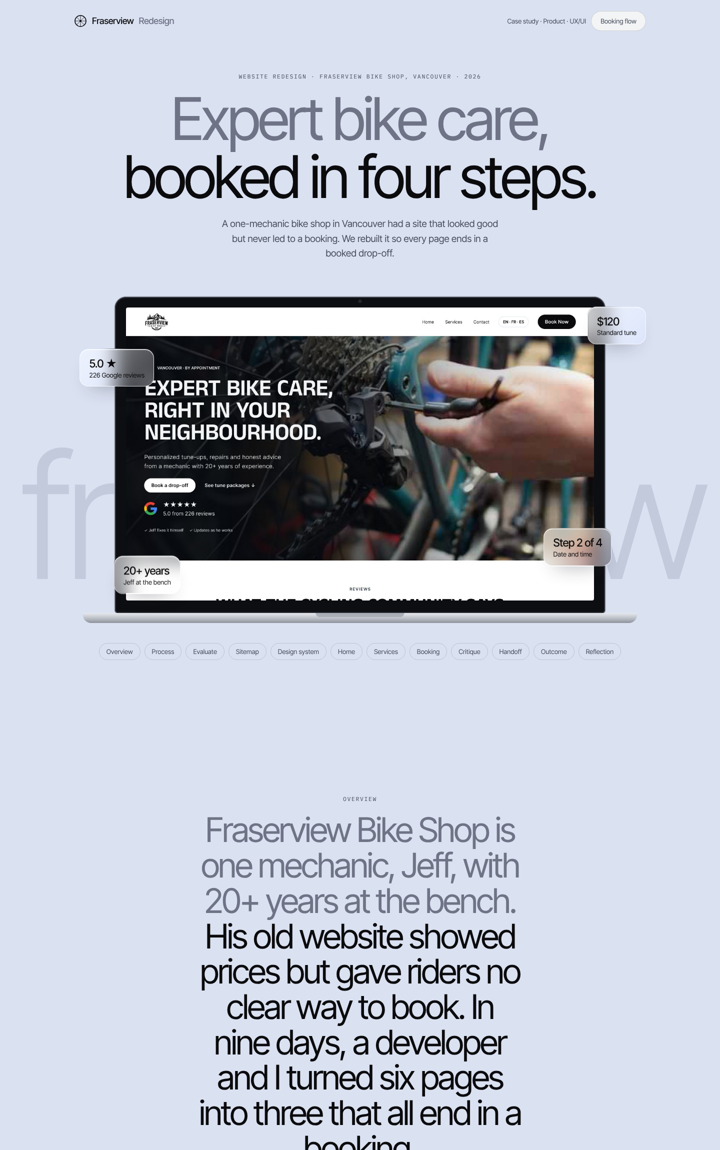
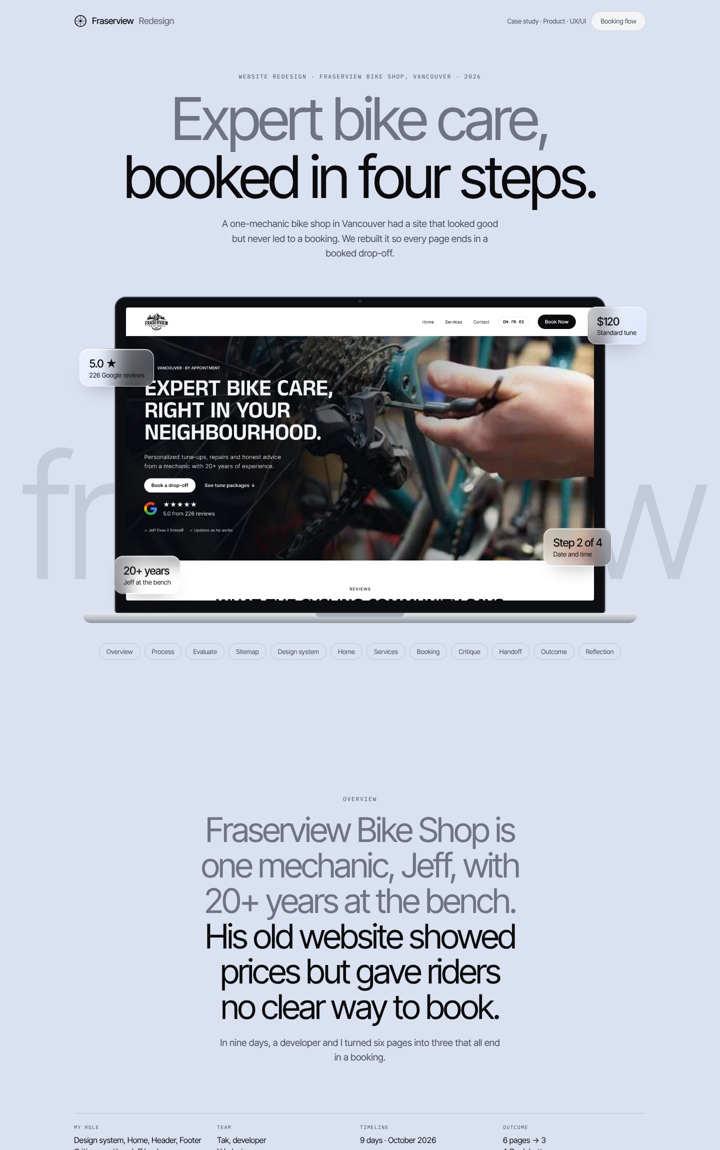
Add v0 one-page skeleton with confirmed copy
Hero with a static six-cover row, work list (3 live, Amigo hidden),
About, Experience and Contact. Pure HTML and CSS; colours and type
as variables in style.css.

Claude-Session: https://claude.ai/code/session_01NvAKwMWB7nvS2ARZZUCqbK

Changed region(s): [[0.0917, 0.8217, 0.7333, 1.0]]

diff --git a/index.html b/index.html
@@ -3,14 +3,190 @@
 <head>
   <meta charset="utf-8">
   <meta name="viewport" content="width=device-width, initial-scale=1">
-  <title>Yujeong Kwon — Designer</title>
-  <style>
-    :root { --bg: #fff; --fg: #111; }
-    body { margin: 0; min-height: 100vh; display: grid; place-items: center; background: var(--bg); color: var(--fg); font-family: system-ui, sans-serif; padding: 16px; }
-    p { font-size: 1.25rem; max-width: 36ch; text-align: center; }
-  </style>
+  <title>Yujeong Kwon — Designer, Vancouver</title>
+  <meta name="description" content="Designer working across brand, marketing, and product. Based in Vancouver.">
+  <link rel="preconnect" href="https://fonts.googleapis.com">
+  <link rel="preconnect" href="https://fonts.gstatic.com" crossorigin>
+  <link rel="stylesheet" href="https://fonts.googleapis.com/css2?family=Inter+Tight:wght@400;500;600&family=IBM+Plex+Mono:wght@400;500&display=swap">
+  <link rel="stylesheet" href="style.css">
 </head>
 <body>
-  <p>Designer working across brand, marketing, and product. Based in Vancouver. — Site in progress.</p>
+
+<header class="wrap top">
+  <a class="name" href="#top">Yujeong Kwon</a>
+  <nav aria-label="Sections">
+    <a href="#work">Work</a>
+    <a href="#about">About</a>
+    <a href="#contact">Contact</a>
+  </nav>
+</header>
+
+<!-- HERO -->
+<section class="wrap hero" id="top">
+  <h1 class="h-xl">Designer working across brand, marketing, and product.</h1>
+  <p class="sub"><span>Based in Vancouver.</span><a href="#about">Same method, different rooms → How these connect</a></p>
+
+  <!-- The crate. Six covers; off-centre tilt comes in step 2. -->
+  <div class="crate" aria-label="Selected work">
+    <a class="card" href="#w-creodent">
+      <div class="cover cv-creo"><span>CreoDent</span></div>
+      <div class="cap"><b>CreoDent</b><span>Brand</span></div>
+    </a>
+    <a class="card" href="work/fraserview/">
+      <div class="cover"><img src="work/fraserview/img/home_d.jpg" alt="Fraserview Bike Shop home page"><span>Fraserview</span></div>
+      <div class="cap"><b>Fraserview</b><span>Product</span></div>
+    </a>
+    <a class="card" href="#w-bca">
+      <div class="cover cv-bca"><span>BCA</span></div>
+      <div class="cap"><b>BCA</b><span>In progress</span></div>
+    </a>
+    <a class="card" href="#about">
+      <div class="cover cv-star"><span>Starlight Studio</span></div>
+      <div class="cap"><b>Starlight Studio</b><span>Marketing</span></div>
+    </a>
+    <a class="card" href="#about">
+      <div class="cover cv-loom"><span>LineLoomArt</span></div>
+      <div class="cap"><b>LineLoomArt</b><span>Maker</span></div>
+    </a>
+    <a class="card" href="#about">
+      <div class="cover cv-me"><span>Yujeong</span></div>
+      <div class="cap"><b>Yujeong</b><span>About</span></div>
+    </a>
+  </div>
+</section>
+
+<!-- WORK -->
+<section class="wrap work" id="work">
+  <p class="label">Work</p>
+  <ol>
+    <li id="w-creodent">
+      <span class="n">01</span>
+      <div>
+        <h3><a href="#w-creodent">CreoDent</a></h3>
+        <p class="tagline">A year in-house. Then they called me back.</p>
+      </div>
+      <p class="desc">Ads, social, video, trade shows, eShop photography and two internal tools for a New York dental lab, across three sub-brands that could not look alike. The templates are still in use; I've been their freelance designer since.</p>
+      <div class="meta">
+        <div class="tags"><span>Brand</span><span>Marketing</span><span>Product</span></div>
+        <span class="year">2024 – now</span>
+      </div>
+    </li>
+    <li id="w-fraserview">
+      <span class="n">02</span>
+      <div>
+        <h3><a href="work/fraserview/">Fraserview Bike Shop</a></h3>
+        <p class="tagline">Expert bike care, booked in four steps.</p>
+      </div>
+      <p class="desc">Six pages became three that all end in a booking. Design system, Home and developer handoff, in nine days with a developer.</p>
+      <div class="meta">
+        <div class="tags"><span>Product</span></div>
+        <span class="year">2026</span>
+      </div>
+    </li>
+    <li id="w-bca">
+      <span class="n">03</span>
+      <div>
+        <h3><a href="#w-bca">BCA · Brazilian Community Association of BC</a></h3>
+        <p class="tagline">A bilingual community site that feels like a neighbour, not an office.</p>
+      </div>
+      <p class="desc">Mid-fi, shared design system and PT/EN build for a team of four. Opens December.</p>
+      <div class="meta">
+        <div class="tags"><span>Product</span><span class="soft">In progress</span></div>
+        <span class="year">2026</span>
+      </div>
+    </li>
+    <!-- 04 Amigo · coming December
+    <li id="w-amigo">
+      <span class="n">04</span>
+      <div>
+        <h3><a href="#w-amigo">Amigo</a></h3>
+        <p class="tagline">Over-the-counter medicine, explained for newcomers.</p>
+      </div>
+      <p class="desc">When you are sick in a new country, the pharmacy is a wall of words. A search app for immigrants and students.</p>
+      <div class="meta">
+        <div class="tags"><span>Product</span></div>
+        <span class="year">2026</span>
+      </div>
+    </li>
+    -->
+  </ol>
+  <p class="more muted">More: Starlight Studio, LineLoomArt, SMC Korea, Ugly So Lovely — in the Playground, coming soon.</p>
+</section>
+
+<!-- ABOUT -->
+<section class="wrap about" id="about">
+  <p class="label">About · How these connect</p>
+  <div class="grid">
+    <div>
+      <p class="lead">I observe people. I understand the context. I turn an idea into something you can see. Then I make it real — on a screen, on paper, or in a room.</p>
+      <p class="lead">That is the whole method. Only the rooms change: a dental lab in New York, a bike shop in Vancouver, an art academy in Korea, a nail bar downtown. Each one taught me a different way to see the person on the other side.</p>
+    </div>
+    <div>
+      <p class="label">Beyond the screen</p>
+      <ul class="beyond">
+        <li><b>Nail bar</b><span>One client at a time, millimetre detail, feedback in seconds.</span></li>
+        <li><b>Teaching · art, adult English</b><span>Designing how people understand.</span></li>
+        <li><b>Marketing lead · art academy</b><span>Content that has to answer to numbers.</span></li>
+        <li><b>Etsy shop</b><span>Product, listing, launch and support, alone.</span></li>
+        <li><b>Trade shows</b><span>Booth flow, dwell time, what people actually pick up.</span></li>
+      </ul>
+    </div>
+  </div>
+</section>
+
+<!-- EXPERIENCE -->
+<section class="wrap xp" id="experience">
+  <p class="label">Experience</p>
+  <div class="rows">
+    <div class="row">
+      <time>Now</time>
+      <div><b>CreoDent</b> Freelance designer · 2026 –</div>
+      <div>Brochures and launch materials for new product lines.</div>
+    </div>
+    <div class="row">
+      <time>Now</time>
+      <div><b>Starlight Studio</b> SNS lead · 2026 –</div>
+      <div>Monthly plan, posts and captions for an art academy in Korea, remote.</div>
+    </div>
+    <div class="row">
+      <time>Now</time>
+      <div><b>LineLoomArt</b> Founder · 2026 –</div>
+      <div>Editable Canva wedding websites on Etsy: product, listing, launch, support.</div>
+    </div>
+    <div class="row">
+      <time>2024.08 – 2025.08</time>
+      <div><b>CreoDent, New York</b> Graphic Designer, Marketing</div>
+      <div>In-house 2D designer for three sub-brands: 14 magazine ads, 8 videos, 4 trade shows, eShop product photography, two internal tools. Templates still in use; working with them freelance since 2026.</div>
+    </div>
+    <div class="row">
+      <time>2023.01 – 2023.06</time>
+      <div><b>SMC Korea</b> SNS Content Designer</div>
+      <div>Card news, short-form and posters for six public institutions; pitch samples that helped win contracts.</div>
+    </div>
+  </div>
+  <div class="stats">
+    <div><b>4</b><span>Trade shows</span></div>
+    <div><b>3</b><span>Countries</span></div>
+    <div><b>6</b><span>Public-sector clients</span></div>
+  </div>
+  <p class="edu">CICCC, UX/UI Design (2026) · Hanyang University ERICA. Awards: Mediheal top prize, KSDS Outstanding Graduation Work, Design Cloud Top 100.</p>
+</section>
+
+<!-- CONTACT -->
+<section class="wrap contact" id="contact">
+  <p class="label">Contact</p>
+  <h2 class="h-l">Open to digital, brand and product design roles in Vancouver — contract or full-time.</h2>
+  <div class="links">
+    <a href="mailto:kwyj9848@gmail.com">Email</a>
+    <a href="#" aria-disabled="true">LinkedIn</a>
+    <a href="#" aria-disabled="true">Resume (PDF)</a>
+  </div>
+</section>
+
+<footer class="wrap">
+  <span>Yujeong Kwon · Vancouver, BC</span>
+  <span>Built by hand with HTML and CSS, 2026</span>
+</footer>
+
 </body>
 </html>

diff --git a/style.css b/style.css
@@ -1,0 +1,195 @@
+/* ------------------------------------------------------------
+   Yujeong Kwon — portfolio v0
+   Figma analogy: this file is the Variables + Text Styles panel.
+   Change a value under :root and the whole page follows.
+   ------------------------------------------------------------ */
+
+:root {
+  /* colour */
+  --bg: #ffffff;
+  --ink: #000000;
+  --muted: #6b6b6b;
+  --line: #000000;
+  --line-soft: #e6e6e6;
+
+  /* type */
+  --f-display: "Inter Tight", "Helvetica Neue", Arial, sans-serif;
+  --f-body: "Inter Tight", "Helvetica Neue", Arial, sans-serif;
+  --f-mono: "IBM Plex Mono", ui-monospace, Menlo, monospace;
+
+  /* spacing */
+  --wrap: 1280px;
+  --gutter: clamp(16px, 4vw, 48px);
+  --section: clamp(72px, 10vw, 140px);
+
+  /* cards */
+  --card-w: clamp(200px, 22vw, 300px);
+  --card-ratio: 3 / 4;
+
+  color-scheme: light;
+}
+
+* { box-sizing: border-box; }
+html { scroll-behavior: smooth; }
+body {
+  margin: 0;
+  background: var(--bg);
+  color: var(--ink);
+  font-family: var(--f-body);
+  font-size: 17px;
+  line-height: 1.5;
+  -webkit-font-smoothing: antialiased;
+}
+img { max-width: 100%; display: block; }
+a { color: inherit; }
+:focus-visible { outline: 2px solid var(--ink); outline-offset: 3px; }
+
+.wrap { max-width: var(--wrap); margin-inline: auto; padding-inline: var(--gutter); }
+section { padding-block: var(--section); border-top: 1px solid var(--line); }
+
+/* type styles */
+.label {
+  font-family: var(--f-mono);
+  font-size: 12px;
+  letter-spacing: .08em;
+  text-transform: uppercase;
+  color: var(--ink);
+  margin: 0 0 24px;
+}
+.h-xl { font-size: clamp(40px, 7vw, 104px); font-weight: 500; letter-spacing: -.045em; line-height: .98; margin: 0; text-wrap: balance; }
+.h-l  { font-size: clamp(32px, 4.6vw, 64px);  font-weight: 500; letter-spacing: -.04em;  line-height: 1.02; margin: 0; text-wrap: balance; }
+.h-m  { font-size: clamp(22px, 2.4vw, 32px);  font-weight: 500; letter-spacing: -.03em;  line-height: 1.1;  margin: 0; }
+.lead { font-size: clamp(18px, 1.6vw, 22px); line-height: 1.4; max-width: 56ch; margin: 0; }
+p { margin: 0; }
+.muted { color: var(--muted); }
+
+/* header */
+.top {
+  display: flex; justify-content: space-between; align-items: center;
+  padding-block: 20px;
+  font-size: 15px;
+}
+.top .name { font-weight: 600; letter-spacing: -.02em; text-decoration: none; }
+.top nav { display: flex; gap: 24px; }
+.top nav a { text-decoration: none; }
+.top nav a:hover { text-decoration: underline; text-underline-offset: 4px; }
+
+/* hero */
+.hero { border-top: 0; padding-top: clamp(32px, 6vw, 80px); padding-bottom: clamp(48px, 7vw, 96px); }
+.hero .h-xl { max-width: 14ch; }
+.hero .sub {
+  display: flex; justify-content: space-between; align-items: baseline; gap: 16px; flex-wrap: wrap;
+  margin-top: 28px; font-size: 15px;
+}
+.hero .sub a { text-decoration: none; border-bottom: 1px solid var(--ink); }
+
+/* the record crate: a horizontal, snapping row of covers.
+   Step 2 will tilt the off-centre covers with rotateY. */
+.crate {
+  display: flex; gap: 16px;
+  margin-top: clamp(40px, 6vw, 72px);
+  overflow-x: auto;
+  scroll-snap-type: x mandatory;
+  scroll-padding-inline: var(--gutter);
+  padding-bottom: 8px;
+  scrollbar-width: none;
+}
+.crate::-webkit-scrollbar { display: none; }
+.card {
+  flex: 0 0 var(--card-w);
+  scroll-snap-align: start;
+  text-decoration: none;
+  display: grid; gap: 10px;
+}
+.card .cover {
+  aspect-ratio: var(--card-ratio);
+  border: 1px solid var(--line);
+  overflow: hidden;
+  display: grid; place-items: end start;
+  padding: 14px;
+  color: #fff;
+  font-family: var(--f-mono); font-size: 12px; letter-spacing: .06em; text-transform: uppercase;
+  position: relative;
+}
+.card .cover img { position: absolute; inset: 0; width: 100%; height: 100%; object-fit: cover; object-position: top left; }
+.card .cover span { position: relative; }
+.card .cap { display: flex; justify-content: space-between; font-size: 14px; }
+.card .cap b { font-weight: 500; }
+.card .cap span { color: var(--muted); font-family: var(--f-mono); font-size: 12px; letter-spacing: .06em; text-transform: uppercase; }
+.card:hover .cover { outline: 2px solid var(--ink); outline-offset: -2px; }
+
+/* placeholder covers until the real images are picked.
+   One colour per world, so the row reads as "different rooms". */
+.cv-creo  { background: #0f2a3a; }
+.cv-bca   { background: #1f7a3f; }
+.cv-star  { background: #e8b931; color: #000 !important; }
+.cv-loom  { background: #b89a7a; }
+.cv-me    { background: #d9d9d9; color: #000 !important; }
+
+/* work list */
+.work ol { list-style: none; margin: 0; padding: 0; border-top: 1px solid var(--line); }
+.work li {
+  display: grid;
+  grid-template-columns: 72px minmax(0, 5fr) minmax(0, 6fr) 160px;
+  gap: 24px;
+  padding: 32px 0;
+  border-bottom: 1px solid var(--line);
+  align-items: start;
+}
+.work .n { font-family: var(--f-mono); font-size: 13px; letter-spacing: .08em; padding-top: 6px; }
+.work h3 { font-size: clamp(22px, 2.4vw, 32px); font-weight: 500; letter-spacing: -.03em; line-height: 1.1; margin: 0; }
+.work h3 a { text-decoration: none; }
+.work h3 a:hover { text-decoration: underline; text-underline-offset: 5px; }
+.work .tagline { margin-top: 8px; font-size: 17px; color: var(--muted); }
+.work .desc { font-size: 16px; line-height: 1.5; max-width: 52ch; }
+.work .meta { display: grid; gap: 10px; justify-items: end; text-align: right; }
+.tags { display: flex; gap: 6px; flex-wrap: wrap; justify-content: end; }
+.tags span {
+  font-family: var(--f-mono); font-size: 11px; letter-spacing: .08em; text-transform: uppercase;
+  border: 1px solid var(--ink); padding: 3px 9px;
+}
+.tags span.soft { border-color: var(--line-soft); color: var(--muted); }
+.work .year { font-family: var(--f-mono); font-size: 12px; letter-spacing: .06em; color: var(--muted); }
+.work .more { margin-top: 24px; font-size: 15px; }
+
+/* about */
+.about .grid { display: grid; grid-template-columns: minmax(0, 5fr) minmax(0, 7fr); gap: clamp(32px, 6vw, 96px); align-items: start; }
+.about .lead + .lead { margin-top: 20px; }
+.beyond { list-style: none; margin: 0; padding: 0; border-top: 1px solid var(--line); }
+.beyond li { display: grid; grid-template-columns: minmax(0, 2fr) minmax(0, 3fr); gap: 16px; padding: 16px 0; border-bottom: 1px solid var(--line-soft); font-size: 16px; }
+.beyond b { font-weight: 500; }
+
+/* experience */
+.xp .rows { border-top: 1px solid var(--line); }
+.xp .row { display: grid; grid-template-columns: 150px minmax(0, 4fr) minmax(0, 6fr); gap: 24px; padding: 22px 0; border-bottom: 1px solid var(--line-soft); font-size: 16px; }
+.xp time { font-family: var(--f-mono); font-size: 12px; letter-spacing: .06em; color: var(--muted); padding-top: 4px; }
+.xp .row b { font-weight: 500; display: block; }
+.xp .stats { display: grid; grid-template-columns: repeat(3, minmax(0, 1fr)); gap: 24px; margin-top: 56px; border-top: 1px solid var(--line); }
+.xp .stats div { padding-top: 18px; }
+.xp .stats b { display: block; font-size: clamp(40px, 5vw, 72px); font-weight: 500; letter-spacing: -.05em; line-height: 1; font-variant-numeric: tabular-nums; }
+.xp .stats span { font-size: 14px; color: var(--muted); }
+.xp .edu { margin-top: 40px; font-size: 15px; color: var(--muted); max-width: 70ch; }
+
+/* contact */
+.contact .links { display: flex; gap: 12px; flex-wrap: wrap; margin-top: 32px; }
+.contact .links a {
+  text-decoration: none; border: 1px solid var(--ink); padding: 14px 22px; font-size: 15px;
+}
+.contact .links a:hover { background: var(--ink); color: var(--bg); }
+
+footer { border-top: 1px solid var(--line); padding-block: 24px; font-size: 13px; color: var(--muted); display: flex; justify-content: space-between; gap: 16px; flex-wrap: wrap; }
+
+/* mobile */
+@media (max-width: 820px) {
+  :root { --card-w: 64vw; }
+  .top nav { gap: 16px; }
+  .work li { grid-template-columns: 1fr; gap: 12px; padding: 24px 0; }
+  .work .n { padding-top: 0; }
+  .work .meta { justify-items: start; text-align: left; }
+  .tags { justify-content: start; }
+  .about .grid { grid-template-columns: 1fr; }
+  .beyond li { grid-template-columns: 1fr; gap: 4px; }
+  .xp .row { grid-template-columns: 1fr; gap: 6px; }
+  .xp .stats { grid-template-columns: repeat(3, minmax(0, 1fr)); gap: 12px; }
+}
+@media (prefers-reduced-motion: reduce) { html { scroll-behavior: auto; } }
